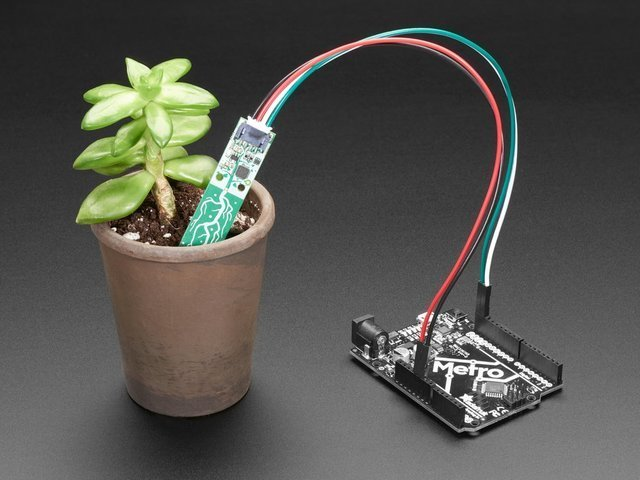
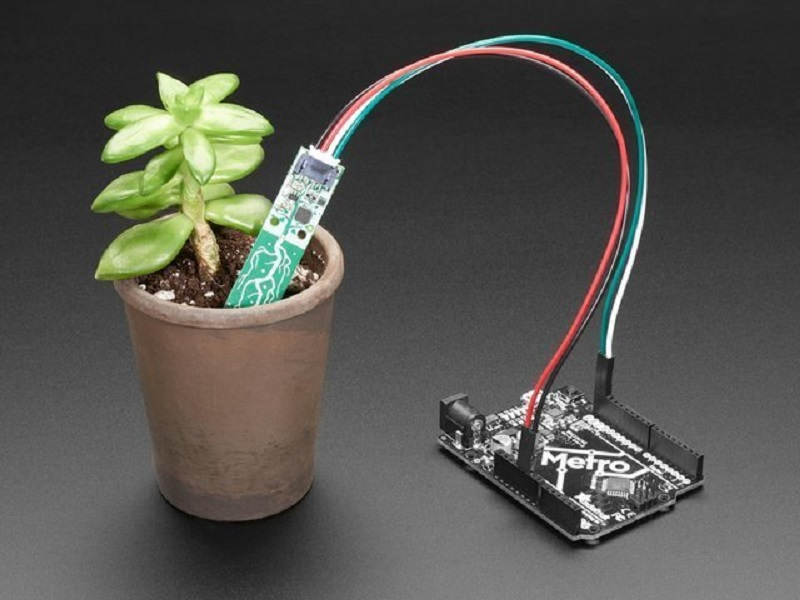
Images on home screen scaled to screen size

diff --git a/sample_app/templates/index.html b/sample_app/templates/index.html
@@ -1,7 +1,7 @@
 <!doctype html>
 <html>
 <head>
-  <title>Datastore and Firebase Auth Example</title>
+  <title>Soil Moisture Tracker</title>
   <script src="{{ url_for('static', filename='script.js') }}"></script>
   
 </head>
@@ -24,14 +24,16 @@
 
   </script>
   <span id='ct' ></span>
+  <br>
 
-  <h2>Last 10 visits</h2>
+  <!-- <h2>Last 10 visits</h2>
   {% for time in times %}
     <p>{{ time }}</p>
-  {% endfor %}
+  {% endfor %} -->
 <link href="https://fonts.googleapis.com/css?family=Roboto" rel="stylesheet" type="text/css">
  <script src="https://apis.google.com/js/api:client.js"></script>
-<img src="../static/hardware.jpg">
+<img src="../static/hardware.jpg" id="hardware">
+<img src="../static/meter.jpg" id="meter">
 <script>
   var googleUser = {};
   var startApp = function() {

diff --git a/sample_app/static/style.css b/sample_app/static/style.css
@@ -24,6 +24,24 @@ body {
 #customBtn:hover {
   cursor: pointer;
 }
+
+#hardware {
+	left: 5%;
+	top: 15%;
+	width: 40%;
+	height: auto;
+	padding-left: 10px;
+	padding-right: 10px;
+}
+
+#meter {
+	right: 5%;
+	top: 15%;
+	width: 40%;
+	height: auto;
+	padding-left: 10px;
+	padding-right: 10px;
+}
 span.label {
   font-family: serif;
   font-weight: normal;
